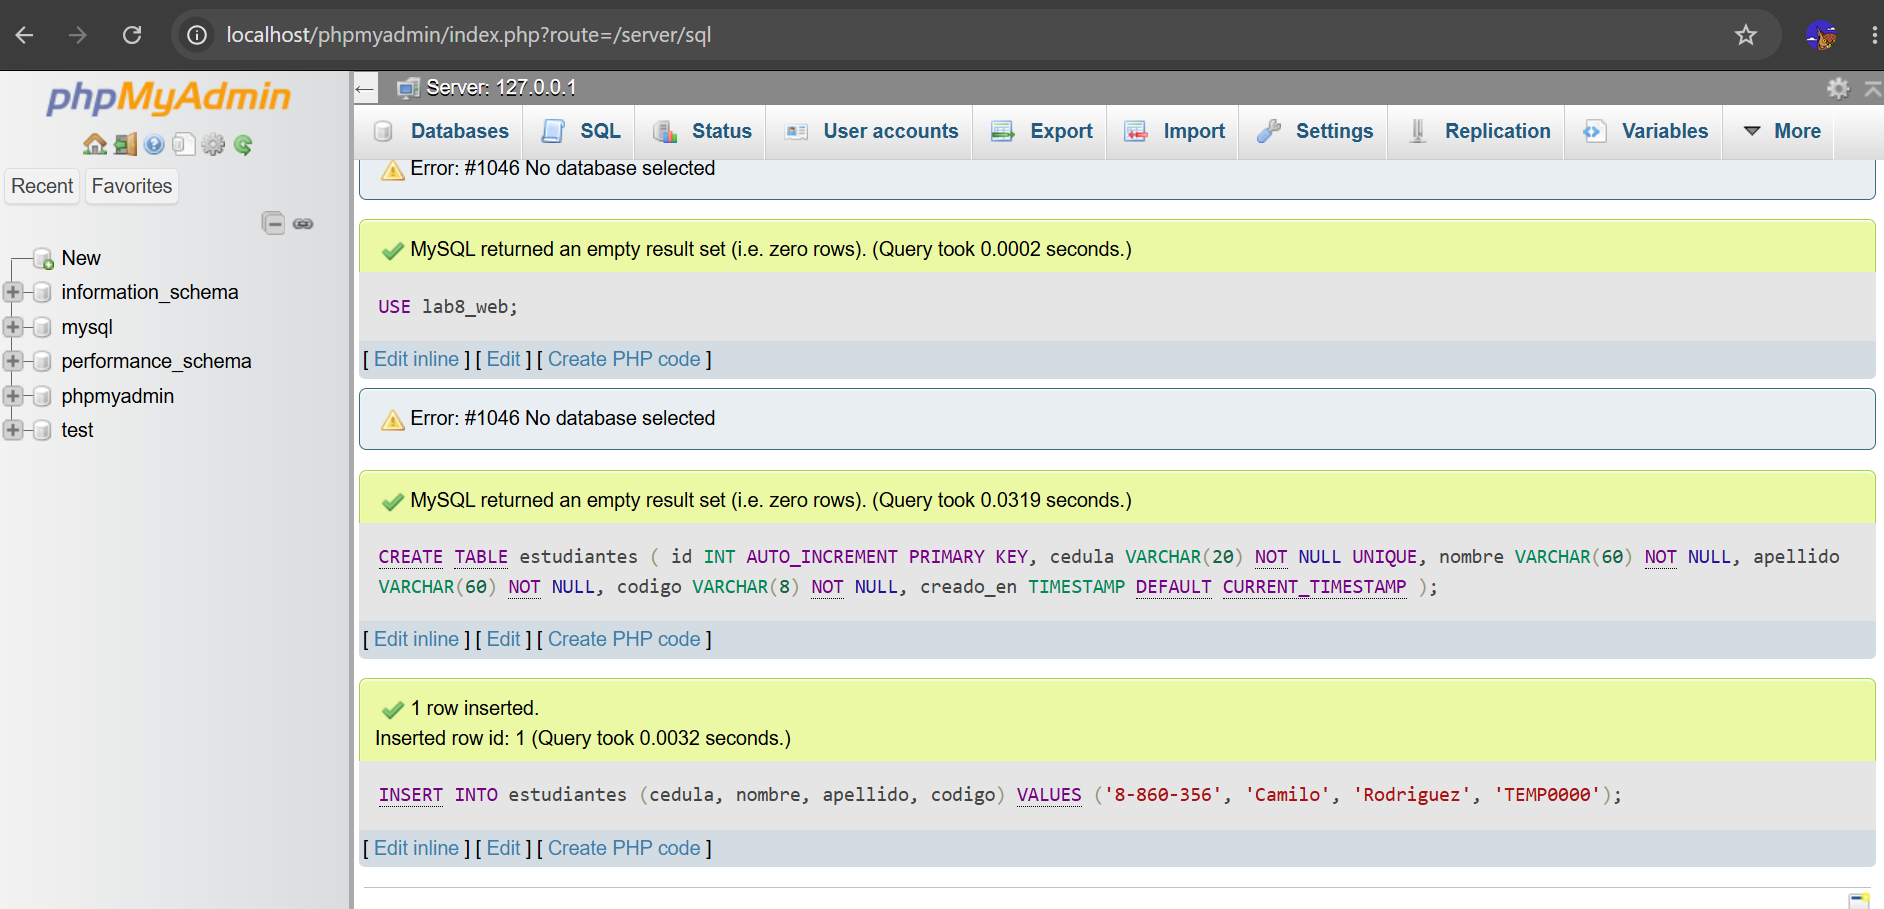
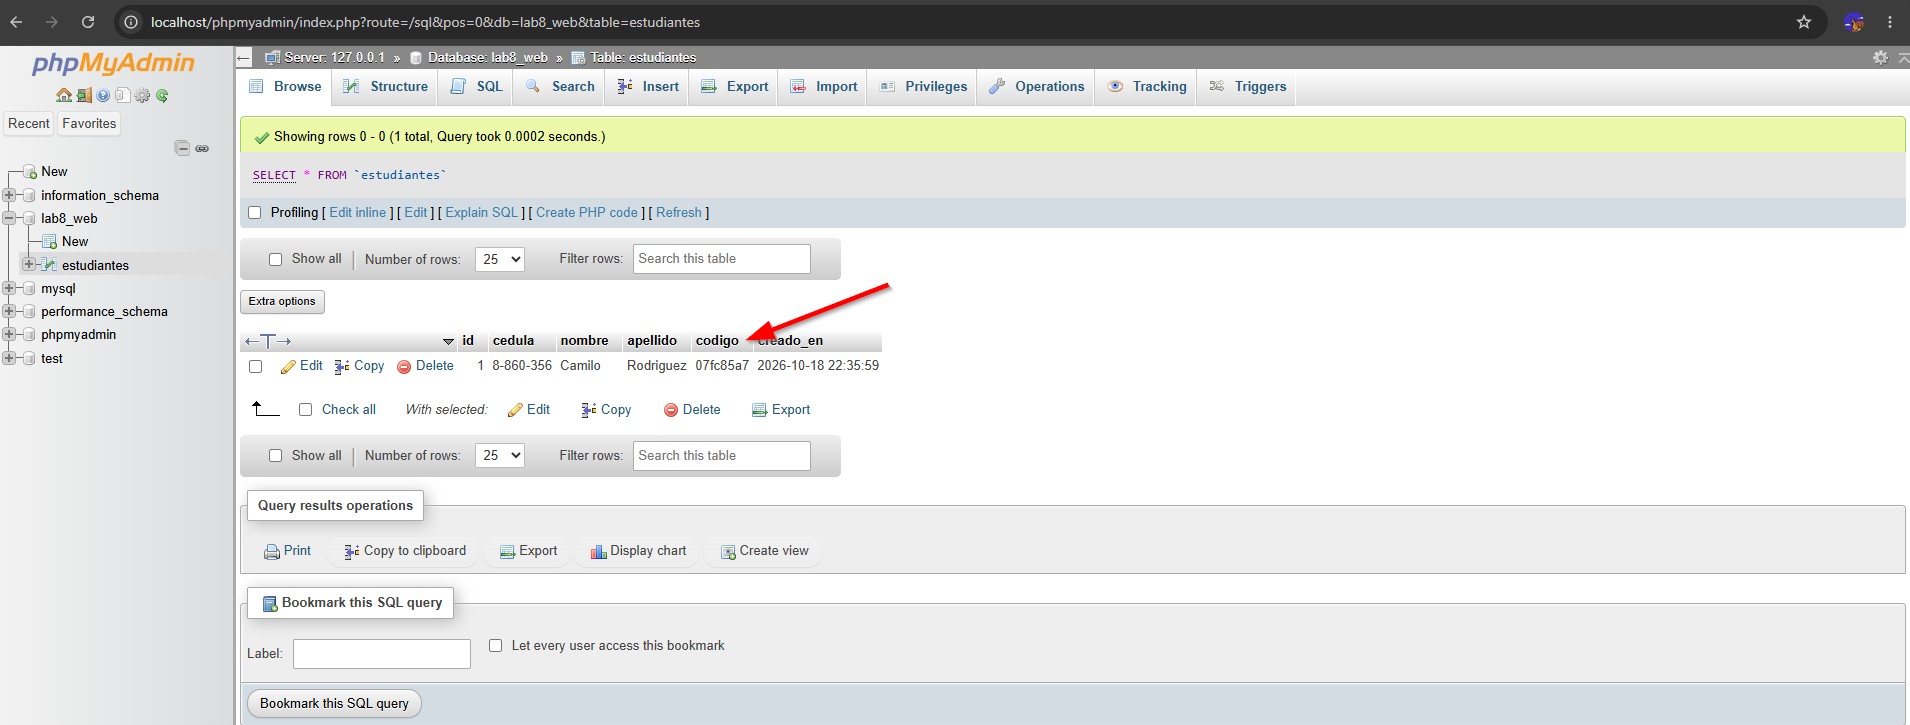
[E3] tipos, conversiones y salida JSON

diff --git a/public/tipos.php b/public/tipos.php
@@ -28,3 +28,68 @@ $cociente = intdiv($n1, $n2);
 // Otras variables solicitadas
 $nulo  = null;
 $lista = [1, 2, 3];
+
+// --- 3.3 Tipos de datos y conversión de tipos ---
+
+// Mostrar variables con var_dump
+var_dump($codigo, $n1, $precio, $activo, $nulo, $lista);
+
+// Expresiones de type juggling y comentarios explicativos
+// El operador "+" convierte strings a números para sumar matemáticamente
+$suma_str = "5" + "10"; 
+
+// El operador "." se usa estrictamente para concatenar texto
+$concat   = "5" . "10"; 
+
+// El casting (int) lee los números al inicio y descarta el texto "abc"
+$cast_int = (int) "12abc"; 
+
+// Falso debido a la imprecisión de punto flotante en memoria (0.30000000000000004 != 0.3).
+$float_eq = (0.1 + 0.2 == 0.3); 
+
+// Verdadero. == compara el valor matemático y PHP interpreta "1e1" como notación científica (10).
+$loose    = ("10" == "1e1"); 
+
+// Falso. === compara valor Y tipo. Como strings, "10" y "1e1" no son exactamente iguales caracter por caracter.
+$strict   = ("10" === "1e1"); 
+
+
+// --- Salida final para el autograde ---
+
+// Construir el arreglo asociativo con la estructura exacta
+$resultado = [
+    'codigo'   => $codigo,
+    'n1'       => $n1,
+    'n2'       => $n2,
+    'suma'     => $suma,
+    'division' => $division,
+    'resto'    => $resto,
+    'cociente' => $cociente,
+    'precio'   => $precio,
+    'activo'   => $activo,
+    'tipos'    => [
+        'codigo' => gettype($codigo),
+        'n1'     => gettype($n1),
+        'precio' => gettype($precio),
+        'activo' => gettype($activo),
+        'nulo'   => gettype($nulo),
+        'lista'  => gettype($lista)
+    ],
+    'juggling' => [
+        'suma_str' => $suma_str,
+        'concat'   => $concat,
+        'cast_int' => $cast_int,
+        'float_eq' => $float_eq,
+        'loose'    => $loose,
+        'strict'   => $strict
+    ],
+    'constantes' => [
+        'SEMILLA_LAB8' => constant('SEMILLA_LAB8'),
+        'LAB_NUMERO'   => LAB_NUMERO,
+        // Devuelve false (o lanza un warning ocultado por el @) porque una constante, por definición, no puede cambiar su valor una vez definida.
+        'redefinir'    => @define('SEMILLA_LAB8', 'otra') 
+    ]
+];
+
+// Imprimir la única línea final
+echo "\n##JSON## " . json_encode($resultado) . "\n";
